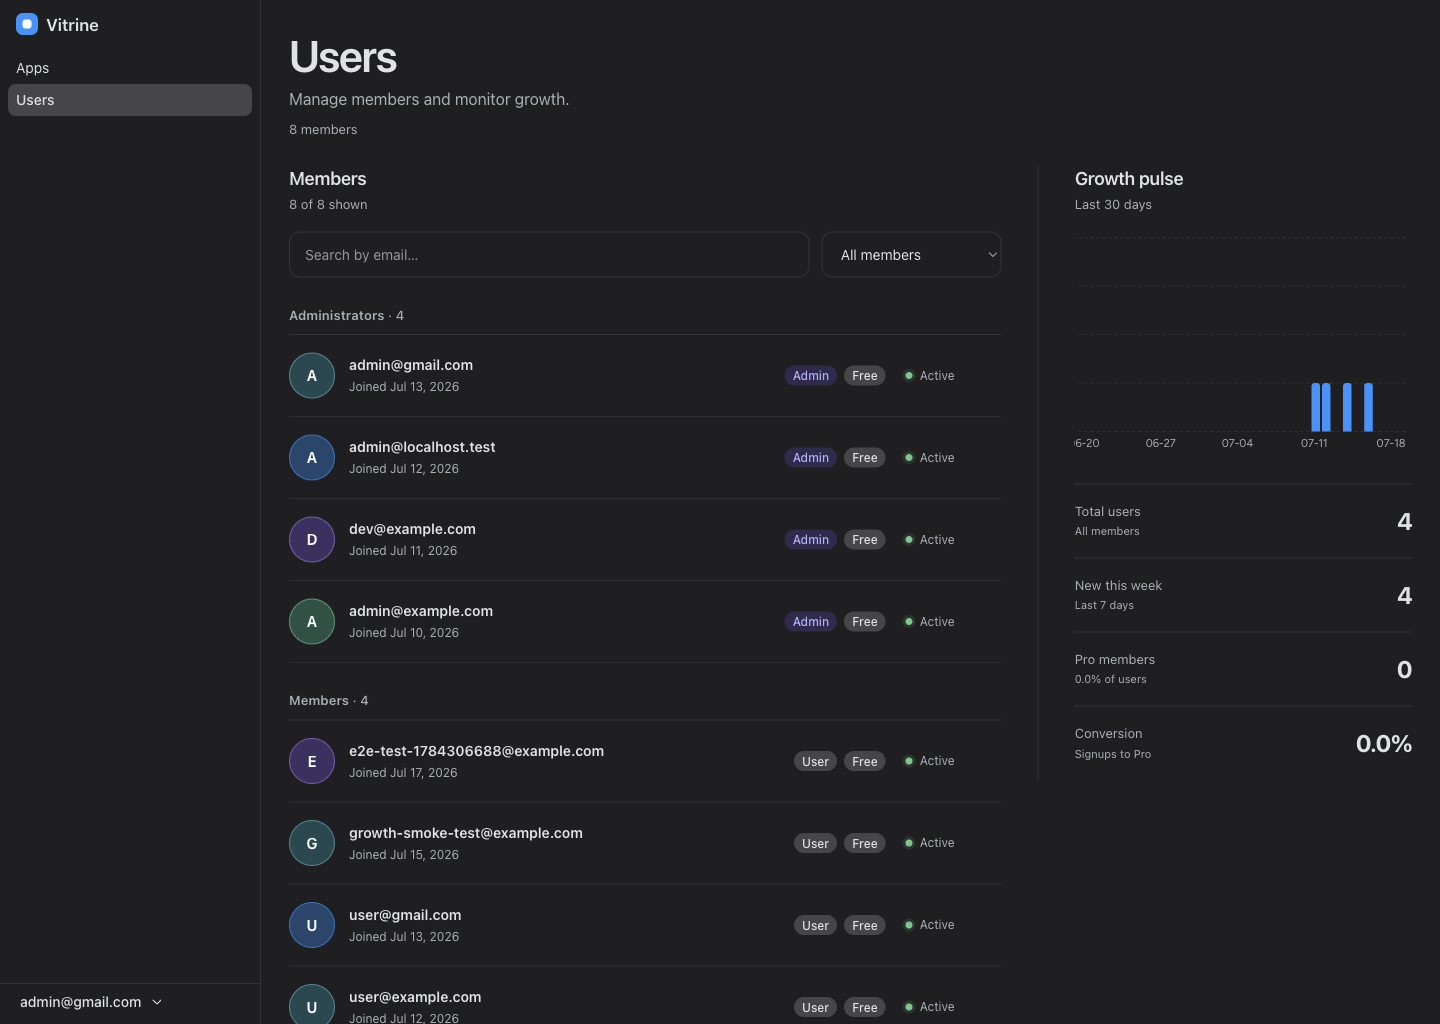
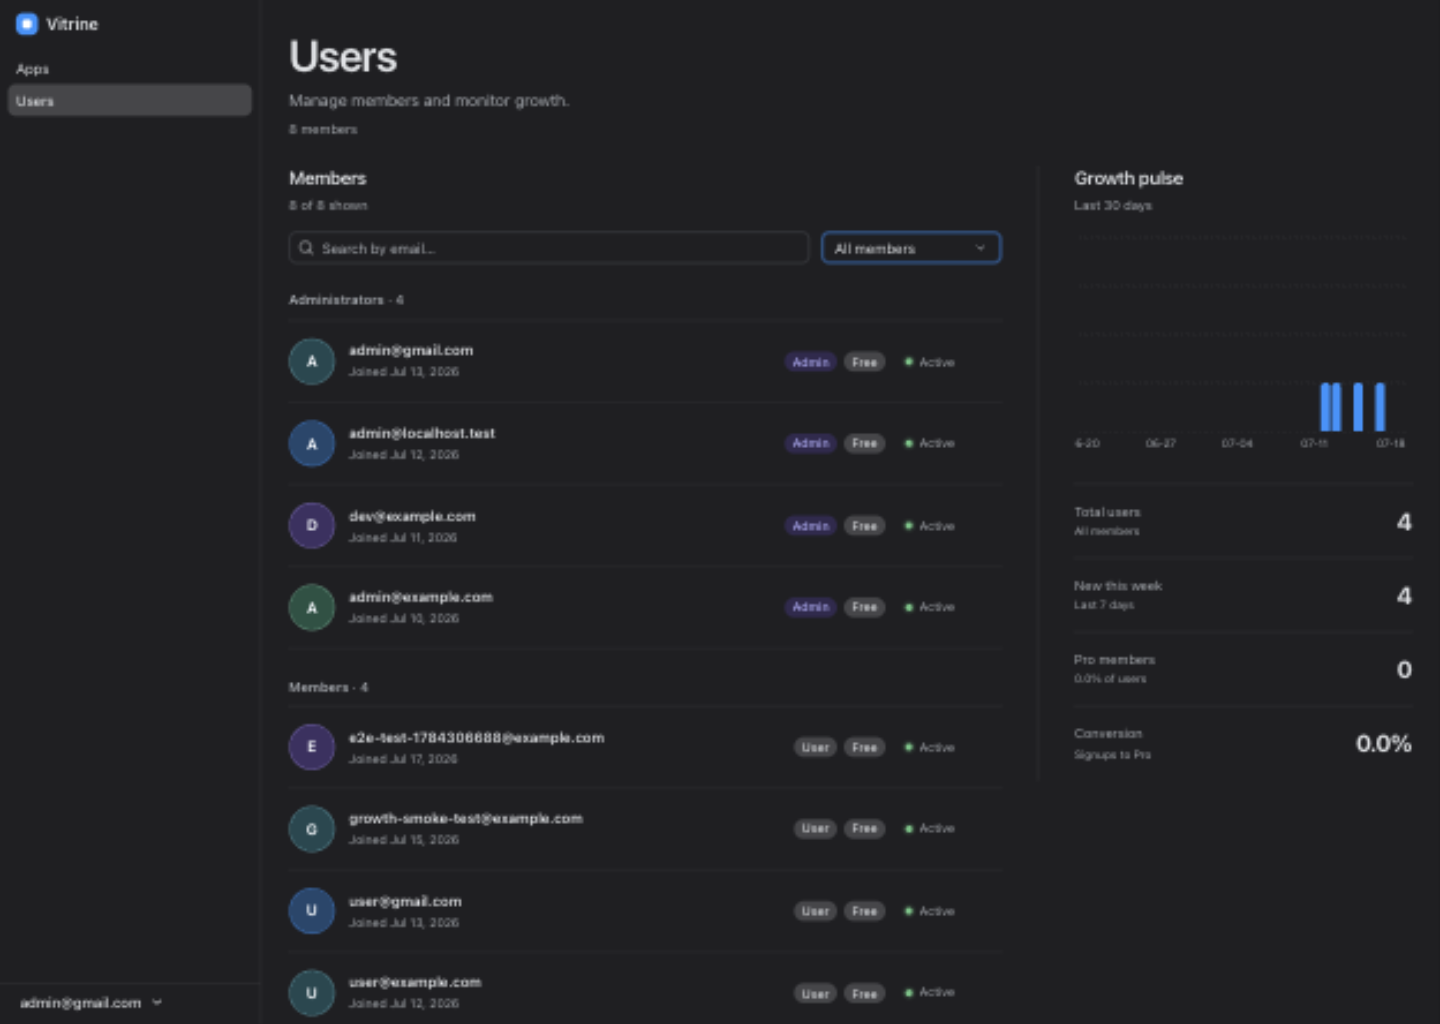
fix: use Astryx controls on users page

diff --git a/src/vitrine/styles.css b/src/vitrine/styles.css
@@ -307,47 +307,14 @@ body {
   margin-bottom: 28px;
 }
 
-.admin-users-search,
-.admin-users-filter {
-  min-height: 46px;
-  border: 1px solid var(--color-border);
-  border-radius: 11px;
-  outline: none;
-  background: var(--color-background-surface);
-  color: var(--color-text-primary);
-  font: inherit;
-  font-size: 14px;
-  transition: border-color 140ms ease, background-color 140ms ease, box-shadow 140ms ease;
-}
-
-.admin-users-search {
+.admin-users-search-control {
   flex: 1 1 320px;
   width: 100%;
   min-width: 180px;
-  padding: 0 15px;
 }
 
-.admin-users-search::placeholder {
-  color: var(--color-text-secondary);
-  opacity: 0.82;
-}
-
-.admin-users-filter {
+.admin-users-filter-control {
   flex: 0 0 180px;
-  padding: 0 36px 0 14px;
-  cursor: pointer;
-}
-
-.admin-users-search:hover,
-.admin-users-filter:hover {
-  border-color: color-mix(in srgb, var(--color-text-secondary) 65%, var(--color-border));
-}
-
-.admin-users-search:focus-visible,
-.admin-users-filter:focus-visible,
-.admin-users-empty button:focus-visible {
-  border-color: var(--color-accent);
-  box-shadow: 0 0 0 3px color-mix(in srgb, var(--color-accent) 20%, transparent);
 }
 
 .admin-users-groups {
@@ -550,18 +517,9 @@ body {
   font-size: 14px;
 }
 
-.admin-users-empty button,
-.admin-users-error button {
+.admin-users-empty [role="button"],
+.admin-users-error [role="button"] {
   margin-top: 8px;
-  min-height: 38px;
-  padding: 0 14px;
-  border: 1px solid var(--color-border);
-  border-radius: 9px;
-  background: var(--color-background-surface);
-  color: var(--color-text-primary);
-  font: inherit;
-  font-size: 13px;
-  cursor: pointer;
 }
 
 .admin-users-state {
@@ -631,8 +589,8 @@ body {
     margin-bottom: 24px;
   }
 
-  .admin-users-search,
-  .admin-users-filter {
+  .admin-users-search-control,
+  .admin-users-filter-control {
     flex-basis: auto;
     width: 100%;
     min-width: 0;

diff --git a/src/vitrine/components/UsersPage.tsx b/src/vitrine/components/UsersPage.tsx
@@ -1,6 +1,6 @@
 import { useMemo, useState } from 'react';
 import { Bar, BarChart, CartesianGrid, ResponsiveContainer, Tooltip, XAxis, YAxis } from 'recharts';
-import { Badge, Spinner } from '@astryxdesign/core';
+import { Badge, Button, Icon, Selector, Spinner, TextInput } from '@astryxdesign/core';
 import { useUsersGrowth } from '../useUsersGrowth';
 import {
   filterAdminUsers,
@@ -71,24 +71,27 @@ function MemberDirectory({ users }: { users: AdminUser[] }) {
       </div>
 
       <div className="admin-users-toolbar">
-        <input
-          className="admin-users-search"
-          type="search"
-          value={query}
-          onChange={(event) => setQuery(event.target.value)}
-          aria-label="Search members"
-          placeholder="Search by email…"
-        />
-        <select
-          className="admin-users-filter"
-          value={filter}
-          onChange={(event) => setFilter(event.target.value as UserFilter)}
-          aria-label="Filter members"
-        >
-          {Object.entries(USER_FILTER_LABELS).map(([value, label]) => (
-            <option key={value} value={value}>{label}</option>
-          ))}
-        </select>
+        <div className="admin-users-search-control">
+          <TextInput
+            label="Search members"
+            isLabelHidden
+            value={query}
+            onChange={setQuery}
+            placeholder="Search by email…"
+            startIcon={<Icon icon="search" size="sm" />}
+            hasClear={Boolean(query)}
+            width="100%"
+          />
+        </div>
+        <div className="admin-users-filter-control">
+          <Selector
+            label="Filter members"
+            isLabelHidden
+            value={filter}
+            onChange={(value) => setFilter(value as UserFilter)}
+            options={Object.entries(USER_FILTER_LABELS).map(([value, label]) => ({ value, label }))}
+          />
+        </div>
       </div>
 
       {users.length === 0 ? (
@@ -100,7 +103,7 @@ function MemberDirectory({ users }: { users: AdminUser[] }) {
         <div className="admin-users-empty">
           <h3>No members match these filters</h3>
           <p>Try another email or reset the current segment.</p>
-          {hasFilters && <button type="button" onClick={clearFilters}>Clear filters</button>}
+          {hasFilters && <Button label="Clear filters" size="sm" clickAction={clearFilters} />}
         </div>
       ) : (
         <div className="admin-users-groups">
@@ -220,7 +223,7 @@ export function UsersPage() {
       <div className="admin-users-state admin-users-error">
         <h1>Could not load users</h1>
         <p>{error ?? 'The user data is unavailable right now.'}</p>
-        <button type="button" onClick={() => void refresh()}>Try again</button>
+        <Button label="Try again" clickAction={() => void refresh()} />
       </div>
     );
   }

diff --git a/src/vitrine/components/UsersPage.test.tsx b/src/vitrine/components/UsersPage.test.tsx
@@ -20,8 +20,8 @@ test("renders the member-first Option 2 hierarchy from real API fields", () => {
   assert.match(html, /Manage members and monitor growth/);
   assert.match(html, /2 members/);
   assert.match(html, /Manage members and monitor growth\.<\/p><span>2 members<\/span>/);
-  assert.match(html, /aria-label="Search members"/);
-  assert.match(html, /aria-label="Filter members"/);
+  assert.match(html, /<label[^>]*>Search members<\/label>/);
+  assert.match(html, /<label[^>]*>Filter members<\/label>/);
   assert.match(html, /Administrators/);
   assert.match(html, /Members/);
   assert.match(html, /admin@gmail\.com/);

diff --git a/design-qa.md b/design-qa.md
@@ -35,6 +35,12 @@ A separate desktop crop was not needed because the 1440 × 1024 source and imple
 - Search by email, Administrators, Pro, Free, Disabled, and Clear filters were exercised in the live page. The controls update the current in-memory user set without navigation.
 - Browser console error check returned zero errors.
 
+### Pass 3
+
+- The full repository suite caught the initial native search, selector, and retry controls against the Astryx component-compliance baseline.
+- Replaced those controls with the design-system `TextInput`, `Selector`, `Button`, and `Icon` components while preserving the approved layout.
+- Re-ran search and Administrators filtering through the rendered design-system controls. At 390px, the title remains at 121px, the toolbar remains stacked, Growth pulse follows the directory, and `scrollWidth === clientWidth`.
+
 ## Required fidelity surfaces
 
 - Fonts and typography: Uses the existing Figtree stack. Display, section, row, metadata, and metric weights preserve the source hierarchy; dense row text remains 12–14px and the page title remains the only display-sized text.